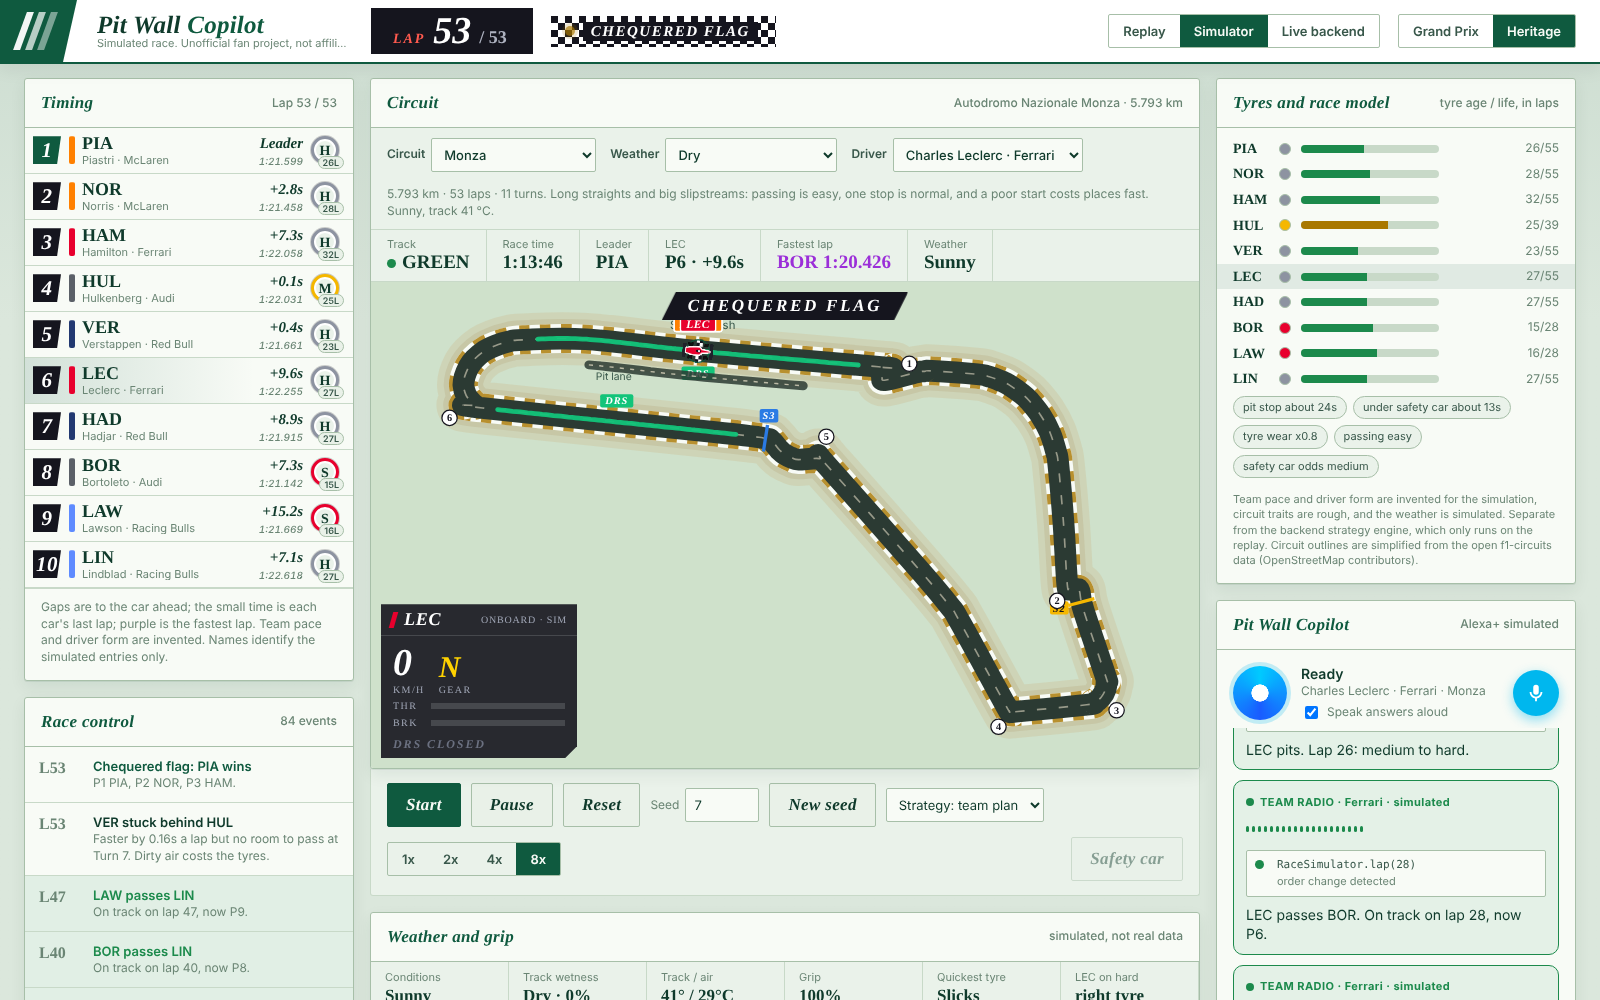
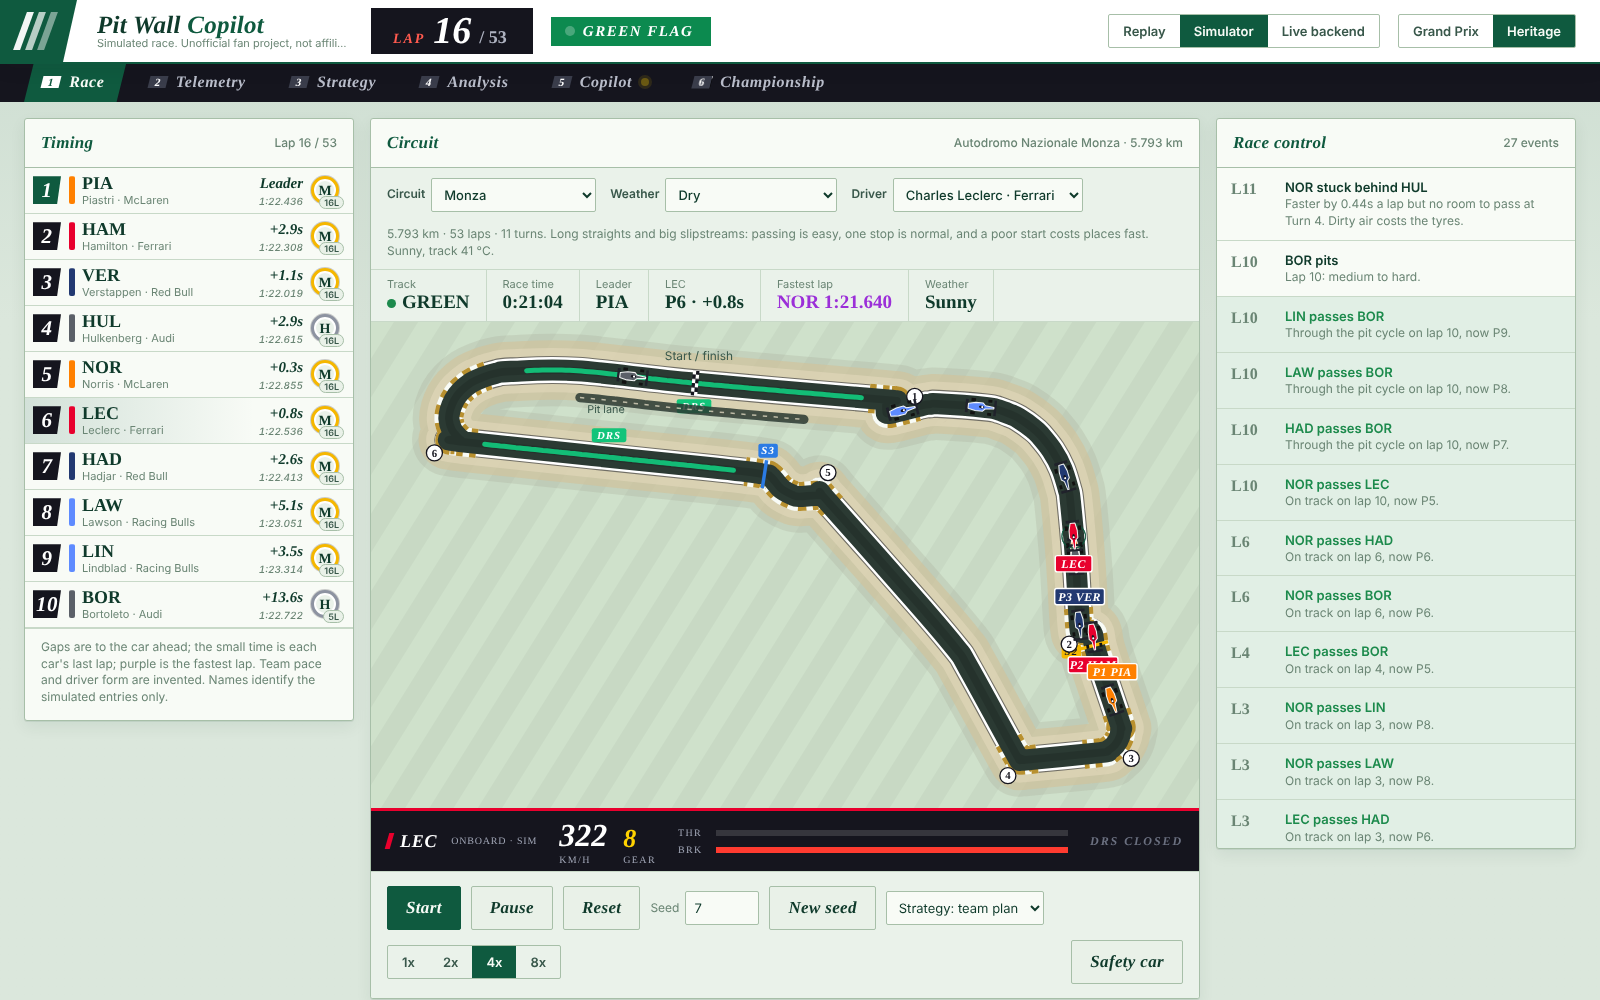
Dashboard: better track rendering
Zoom each circuit to fit the map, add mown-grass stripes, gravel run-off,
white edge lines, corner-only kerbs and a rubbered line, and move the
onboard strip below the map so it no longer covers the track.

Claude-Session: https://claude.ai/code/session_01L5yDd5ps82K518cWX4Qi71

diff --git a/web-dashboard/index.html b/web-dashboard/index.html
@@ -342,24 +342,24 @@ html:not([data-theme="heritage"]) .row .code{font-style:italic;font-size:23px;le
 .lt3 .tc{width:6px;background:var(--tc,#e10600)}
 @keyframes ltin{from{transform:translateX(105%)}to{transform:none}}
 @keyframes ltout{to{transform:translateX(105%)}}
-.cam{position:absolute;left:10px;bottom:10px;z-index:3;width:196px;background:rgba(21,21,30,.9);color:#fff;font-family:var(--font-display);clip-path:polygon(0 0,100% 0,100% calc(100% - 12px),calc(100% - 12px) 100%,0 100%)}
+.cam{display:grid;grid-template-columns:auto auto minmax(120px,1fr) auto;align-items:center;column-gap:22px;background:#15151e;color:#fff;font-family:var(--font-display);padding:6px 16px;border-top:3px solid var(--tc,#e10600)}
 .cam:empty{display:none}
-.cam .h{display:flex;align-items:center;gap:8px;padding:5px 10px;border-bottom:1px solid rgba(255,255,255,.14);font-size:12px;letter-spacing:.1em}
+.cam .h{display:flex;align-items:center;gap:8px;font-size:12px;letter-spacing:.1em}
 .cam .h i{width:5px;height:16px;background:var(--tc);transform:skewX(-16deg)}
 .cam .h b{font:italic 800 18px var(--font-display);letter-spacing:.04em}
-.cam .h span{margin-left:auto;font-size:10px;color:#9ea3b3;letter-spacing:.08em}
-.cam .m{display:flex;align-items:flex-end;gap:14px;padding:4px 12px 2px}
+.cam .h span{margin-left:6px;font-size:10px;color:#9ea3b3;letter-spacing:.08em}
+.cam .m{display:flex;align-items:flex-end;gap:16px}
 .cam .m div{line-height:1}
-.cam .m b{font:italic 800 38px var(--font-display);font-variant-numeric:tabular-nums}
+.cam .m b{font:italic 800 32px var(--font-display);font-variant-numeric:tabular-nums}
 .cam .m small{display:block;font-size:10px;letter-spacing:.14em;color:#9ea3b3;margin-top:1px}
-.cam .m .g b{font-size:30px;color:#ffd200}
-.cam .tb{display:grid;grid-template-columns:30px 1fr;gap:3px 8px;padding:2px 12px 4px;font-size:10px;letter-spacing:.14em;color:#9ea3b3;align-items:center}
+.cam .m .g b{font-size:26px;color:#ffd200}
+.cam .tb{display:grid;grid-template-columns:30px 1fr;gap:3px 8px;font-size:10px;letter-spacing:.14em;color:#9ea3b3;align-items:center}
 .cam .tb s{display:block;height:6px;background:rgba(255,255,255,.14);text-decoration:none}
 .cam .tb s i{display:block;height:100%}
-.cam .dr{padding:3px 12px 6px;font:italic 800 12px var(--font-display);letter-spacing:.16em;color:#6b7080}
+.cam .dr{white-space:nowrap;font:italic 800 12px var(--font-display);letter-spacing:.16em;color:#6b7080}
 .cam .dr.on{color:#19e08a}
 .cam .dr em{float:right;font-style:normal;color:#9ea3b3;font-weight:600;font-size:10px}
-@media (max-width:760px){.cam{width:150px}.cam .m b{font-size:28px}}
+@media (max-width:760px){.cam{grid-template-columns:1fr 1fr;row-gap:6px}.cam .m b{font-size:26px}}
 /* start lights */
 .lights{position:absolute;inset:0;z-index:6;display:grid;place-content:center;justify-items:center;gap:14px;background:rgba(21,21,30,.45);transition:opacity .6s}
 .lights.out{opacity:0}
@@ -584,9 +584,9 @@ footer{padding:4px 24px 28px;color:var(--ink3);font-size:12px}
       <div class="trackwrap"><svg class="track" id="track" viewBox="0 0 800 470" role="img" aria-label="Circuit map with live car positions"></svg>
         <div class="banner" id="banner" hidden></div>
         <div class="lt3" id="lt3" hidden></div>
-        <div class="cam only-sim" id="cam"></div>
         <div class="lights" id="lights" hidden><div class="gantry"><div class="pod"><i></i><i></i></div><div class="pod"><i></i><i></i></div><div class="pod"><i></i><i></i></div><div class="pod"><i></i><i></i></div><div class="pod"><i></i><i></i></div></div><div class="lmsg" id="lmsg"></div></div>
       </div>
+      <div class="cam only-sim" id="cam"></div>
       <div class="controls only-replay">
         <button class="btn primary" id="b-start">Start</button>
         <button class="btn" id="b-pause">Pause</button>
@@ -803,22 +803,30 @@ let PATH = PATH_MERIDIAN, PITSPAN = 0.085, TW = 29;
 const REPLAY_TRACK = {path:PATH_MERIDIAN,pitSpan:0.085,tw:29};
 let pathEl=null, plen=0, PIT=[];
 function css(v){return getComputedStyle(document.documentElement).getPropertyValue(v).trim()}
+function fitView(svg){ const tmp=document.createElementNS("http://www.w3.org/2000/svg","path"); tmp.setAttribute("d",PATH); svg.appendChild(tmp); const b=tmp.getBBox(); tmp.remove();
+  const m=TW*1.35+16, A=800/470; let w=b.width+2*m, h=b.height+2*m; if(w/h>A) h=w/A; else w=h*A;
+  const cx=b.x+b.width/2, cy=b.y+b.height/2; VB={x:cx-w/2,y:cy-h/2,w,h}; svg.setAttribute("viewBox",`${VB.x.toFixed(1)} ${VB.y.toFixed(1)} ${w.toFixed(1)} ${h.toFixed(1)}`); }
+let VB={x:0,y:0,w:800,h:470};
 function drawTrack(){
-  const svg=$("track");
-  let rl=""; for(let i=0;i<150;i++){ const x=(i*97)%830-15, y=(i*61)%470; rl+=`<line class="rl" x1="${x}" y1="${y}" x2="${x-4}" y2="${y+15}" style="animation-delay:-${((i*0.137)%0.6).toFixed(2)}s"/>`; }
+  const svg=$("track"); fitView(svg);
+  let rl=""; for(let i=0;i<150;i++){ const x=VB.x+((i*97)%830-15)*VB.w/800, y=VB.y+((i*61)%470)*VB.h/470; rl+=`<line class="rl" x1="${x}" y1="${y}" x2="${x-4*VB.w/800}" y2="${y+15*VB.w/800}" style="animation-delay:-${((i*0.137)%0.6).toFixed(2)}s"/>`; }
   svg.dataset.fx="";
   svg.innerHTML=`
     <defs><pattern id="chk" width="8" height="8" patternUnits="userSpaceOnUse"><rect width="4" height="4" fill="#fff"/><rect x="4" y="4" width="4" height="4" fill="#fff"/><rect x="4" width="4" height="4" fill="#15151e"/><rect y="4" width="4" height="4" fill="#15151e"/></pattern></defs>
-    <path d="${PATH}" fill="none" stroke="#cdbf97" stroke-width="${TW+30}" stroke-linejoin="round" opacity=".38"/>
-    <path d="${PATH}" fill="none" stroke="#b9ab84" stroke-width="${TW+17}" stroke-linejoin="round" opacity=".32"/>
-    <path d="${PATH}" fill="none" stroke="${css("--kerb-a")}" stroke-width="${TW+7}" stroke-linejoin="round"/>
-    <path d="${PATH}" fill="none" stroke="${css("--kerb-b")}" stroke-width="${TW+7}" stroke-linejoin="round" stroke-dasharray="${Math.round(TW*0.48)} ${Math.round(TW*0.48)}"/>
-    <path d="${PATH}" fill="none" stroke="${css("--track")}" stroke-width="${TW}" stroke-linejoin="round"/>
+    <pattern id="mow" width="38" height="38" patternUnits="userSpaceOnUse" patternTransform="rotate(32)"><rect width="19" height="38" fill="rgba(0,0,0,.035)"/></pattern>
+    <rect x="${VB.x-50}" y="${VB.y-50}" width="${VB.w+100}" height="${VB.h+100}" fill="url(#mow)"/>
+    <path d="${PATH}" fill="none" stroke="#9ea18f" stroke-width="${TW+46}" stroke-linejoin="round" opacity=".22"/>
+    <path d="${PATH}" fill="none" stroke="#d2c29a" stroke-width="${TW+34}" stroke-linejoin="round" opacity=".62"/>
+    <path d="${PATH}" fill="none" stroke="#e7dcc0" stroke-width="${TW+20}" stroke-linejoin="round" opacity=".5"/>
+    <path d="${PATH}" fill="none" stroke="#1b1e27" stroke-width="${TW+5}" stroke-linejoin="round" opacity=".55"/>
+    <path d="${PATH}" fill="none" stroke="#ffffff" stroke-width="${TW+3}" stroke-linejoin="round"/>
+    <g id="kerbs"></g>
+    <path d="${PATH}" fill="none" stroke="${css("--track")}" stroke-width="${TW-1.5}" stroke-linejoin="round"/>
     <path id="wetlay" d="${PATH}" fill="none" stroke="#7fa3d4" stroke-width="${TW}" stroke-linejoin="round" opacity="0"/>
     <path id="sheen" d="${PATH}" fill="none" stroke="#ffffff" stroke-width="${Math.max(2,TW/10)}" stroke-dasharray="2 18" stroke-linecap="round" opacity="0"/>
-    <path id="centre" d="${PATH}" fill="none" stroke="${css("--lane")}" stroke-width="1.6" stroke-dasharray="9 12" opacity=".55"/>
+    <path id="centre" d="${PATH}" fill="none" stroke="#000" stroke-width="${(TW*0.34).toFixed(1)}" stroke-linejoin="round" opacity=".13"/>
     <g id="trkfx"></g><g id="sf"></g><g id="cars"></g>
-    <g id="wxfx" pointer-events="none"><rect id="skytint" width="800" height="470" fill="#3d5069" opacity="0"/><g id="rainlines" opacity="0">${rl}</g></g>`;
+    <g id="wxfx" pointer-events="none"><rect id="skytint" x="${VB.x}" y="${VB.y}" width="${VB.w}" height="${VB.h}" fill="#3d5069" opacity="0"/><g id="rainlines" opacity="0">${rl}</g></g>`;
   pathEl=$("centre"); plen=pathEl.getTotalLength();
   const p0=pathEl.getPointAtLength(1), p1=pathEl.getPointAtLength(6);
   const a=Math.atan2(p1.y-p0.y,p1.x-p0.x)*180/Math.PI;
@@ -877,6 +885,13 @@ function analyzeTrack(){
     let nx=-ty*(-c.s), ny=tx*(-c.s); const o=TW*0.5+9; const x=a[0]+nx*o, y=a[1]+ny*o;
     svg+=`<circle cx="${x.toFixed(1)}" cy="${y.toFixed(1)}" r="7.4" fill="#fff" stroke="#15151e" stroke-width="1.2"/><text class="cornr" x="${x.toFixed(1)}" y="${(y+3.4).toFixed(1)}" text-anchor="middle">${c.n}</text>`; });
   $("trkfx").innerHTML=svg;
+  // kerbs: only through corners (curvature above a threshold), alternating red/white blocks on both edges
+  let kb=""; let i0=ks.findIndex(x=>x<0.07); if(i0<0) i0=0; let cur=null; const segs=[];
+  for(let q=0;q<=N;q++){ const i=(i0+q)%N, hi=ks[i]>0.27; if(hi){ if(!cur) cur={s:i,len:0}; cur.len++; } else if(cur){ segs.push(cur); cur=null; } } if(cur) segs.push(cur);
+  segs.filter(g=>g.len>=5).forEach(g=>{ const a=Math.max(0,g.s-2), n=g.len+4, pp=[]; for(let q=0;q<=n;q++) pp.push(pts[(a+q)%N].map(v=>v.toFixed(1)).join(","));
+    const pl=pp.join(" "), w=TW+6, dsh=Math.max(5,Math.round(TW*0.3));
+    kb+=`<polyline points="${pl}" fill="none" stroke="${css("--kerb-a")}" stroke-width="${w}" stroke-linejoin="round"/><polyline points="${pl}" fill="none" stroke="${css("--kerb-b")}" stroke-width="${w}" stroke-linejoin="round" stroke-dasharray="${dsh} ${dsh}"/>`; });
+  const kg=$("kerbs"); if(kg) kg.innerHTML=kb;
 }
 function trkAt(f){ const N=TRK.n; if(!N) return {v:200,thr:.6,brk:0,drs:false}; const x=((f%1)+1)%1*N, i=Math.floor(x)%N, j=(i+1)%N, u=x-Math.floor(x);
   const dz=TRK.drs.some(z=>{ const a=z.s/N, b=(z.s+z.len)/N; const ff=((f%1)+1)%1; return b>a?(ff>=a&&ff<=b):(ff>=a||ff<=b%1); });

diff --git a/web-dashboard/README.md b/web-dashboard/README.md
@@ -73,3 +73,9 @@ Two new Simulator-only pages, **Telemetry** and **Strategy** (keys 2 and 3; Anal
 | Real-time ingestion, Kafka/Redis, FastF1, speech-to-text | See `docs/TELEMETRY_ROADMAP.md` | **Roadmap only, not built** |
 
 Screenshots: `screenshots/page-telemetry.png`, `screenshots/page-strategy.png`.
+
+## Track rendering (v9)
+
+The circuit map zooms to fit each outline, so every layout fills the card. Surfaces follow a simple real-circuit look: mown-grass stripes, a gravel run-off band, white edge lines on straights, red and white kerbs only through corners, a darker rubbered line, DRS zones in green, numbered corners and sector marks. The onboard strip (speed, gear, throttle, brake, DRS) now sits under the map instead of covering the track. Outlines are simplified from open map data and are illustrative.
+
+![Circuits](screenshots/circuits-eight-styles.png)
